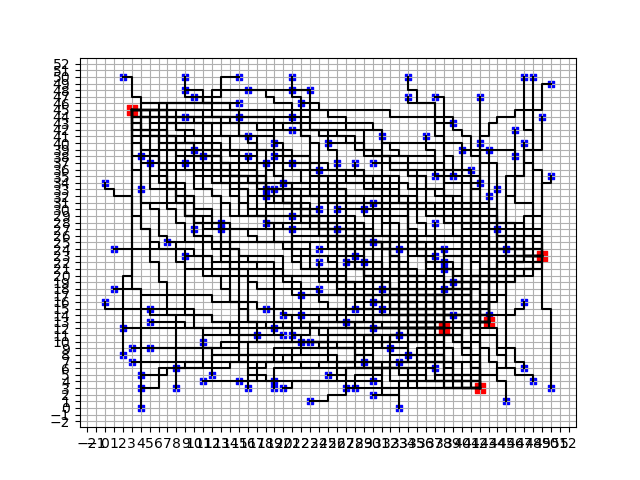
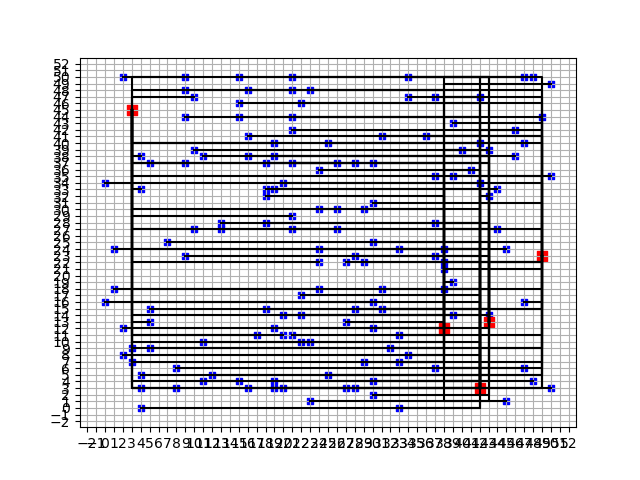
path_finder reset

Changed region(s): [[0.1562, 0.1562, 0.875, 0.875]]

diff --git a/path_finders.py b/path_finders.py
@@ -54,11 +54,20 @@ def random_path_finder(starting_coord: Tuple[int, int],
     path = [(x_path, y_path)]
     
     # Draw the X line
-    for move in moves:
-        if move[0] == "x_path":
-            x_path += move[1]
-        else:
-            y_path += move[1]
+    while x_path != x_end:
+        x_path += next_move_x
         path.append((x_path, y_path))
+    
+    # Draw the Y line
+    while y_path != y_end:
+        y_path += next_move_y
+        path.append((x_path, y_path))
+
+    # for move in moves:
+    #     if move[0] == "x_path":
+    #         x_path += move[1]
+    #     else:
+    #         y_path += move[1]
+        
 
     return path
